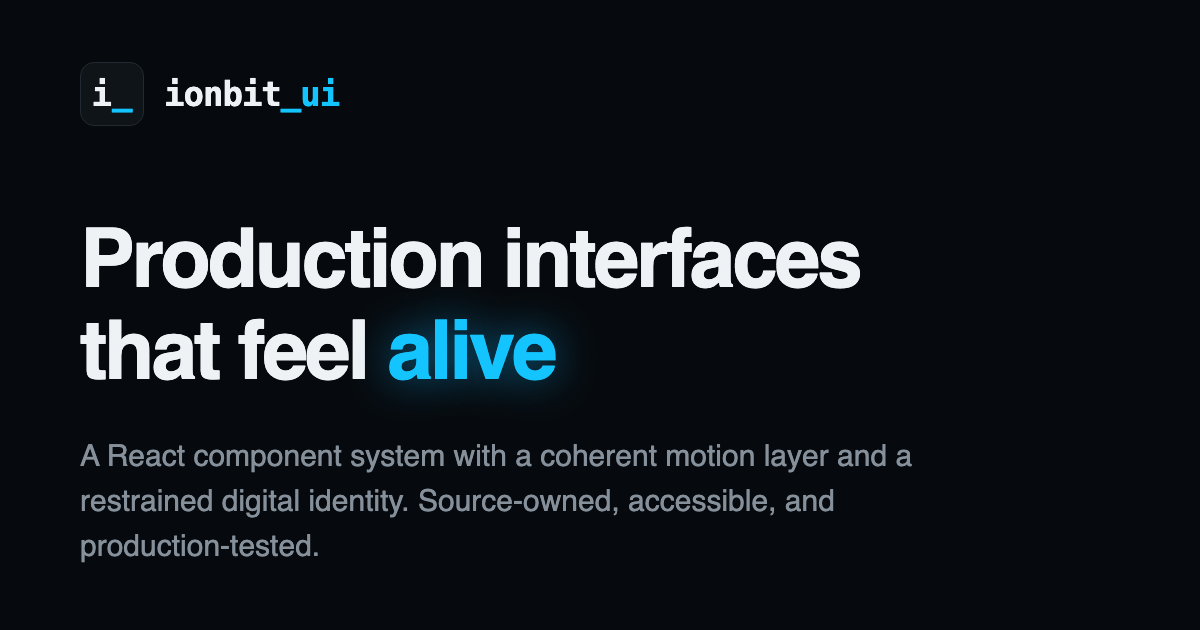
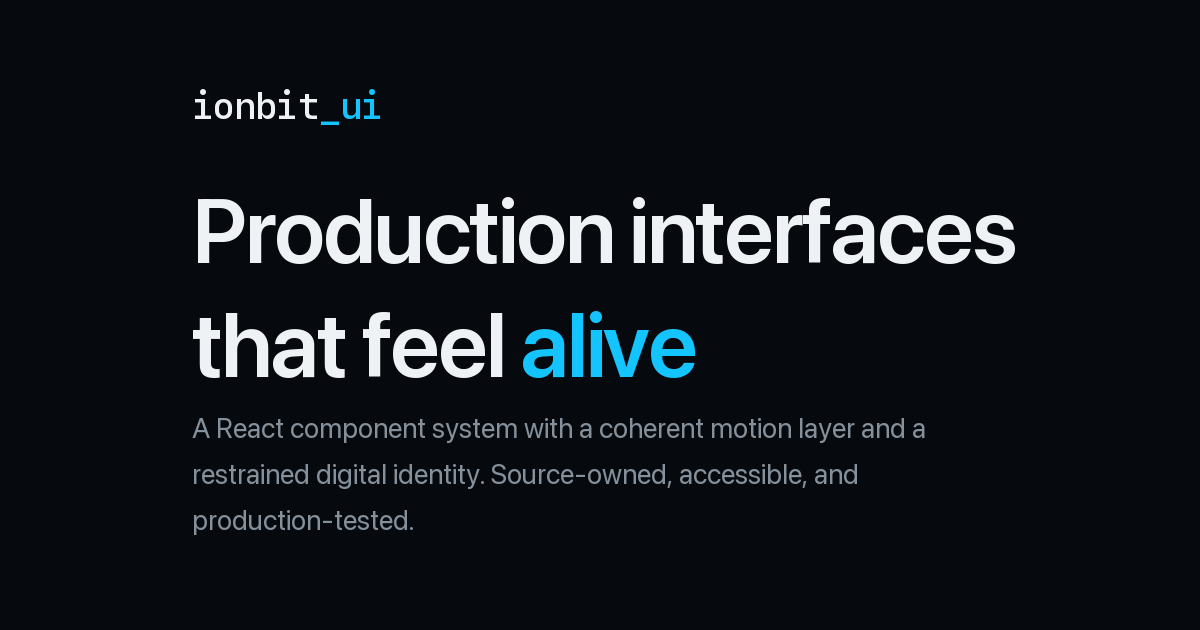
fix(docs): regenerate og-image with balanced layout
The Open Graph image was optically off-center: the text block sagged
with a large void between the logo and headline, cramped bottom
margin, and ~290px of dead space on the right. It also used the wrong
typeface.

og-image.png is now generated by a script
(apps/docs/scripts/generate-og-image.py, run via the docs app's
og:image script) that reproduces the site's typography — SF Pro
semibold with tracking-tight for the headline, SF Mono semibold
wordmark — and lays out the hero lockup with ink-measured optical
gaps weighted by element mass. Side margins are doubled (192px) so
content survives squarer social-preview crops, and the description
wraps at the headline width so both blocks share a right edge.

Changed region(s): [[0.0617, 0.3016, 0.8633, 0.6333], [0.0617, 0.6635, 0.7708, 0.9048], [0.0617, 0.1206, 0.3083, 0.2111]]

diff --git a/apps/docs/scripts/generate-og-image.py b/apps/docs/scripts/generate-og-image.py
@@ -1,0 +1,185 @@
+#!/usr/bin/env python3
+"""Generate apps/docs/public/og-image.png (1200x630 Open Graph image).
+
+Renders the homepage hero lockup (logo + headline + description) with PIL,
+matching the site's typography: SF Pro (ui-sans-serif), SF Mono (font-mono),
+semibold heading with tracking-tight (-0.025em letter-spacing).
+
+Layout is optically balanced: gaps are weighted by element mass rather than
+uniform, and the text block fills the canvas width.
+
+Usage: python3 apps/docs/scripts/generate-og-image.py
+Requires: Pillow. Fonts: SF Pro / SF Mono (macOS system fonts).
+"""
+
+from pathlib import Path
+
+from PIL import Image, ImageDraw, ImageFont
+
+ROOT = Path(__file__).resolve().parents[1]
+OUT = ROOT / "public" / "og-image.png"
+
+W, H = 1200, 630
+
+BG = (6, 10, 14)
+TEXT = (239, 242, 245)
+ACCENT = (20, 196, 255)
+MUTED = (134, 144, 155)
+
+FONT_SANS = "/System/Library/Fonts/SFNS.ttf"
+FONT_MONO = "/System/Library/Fonts/SFNSMono.ttf"
+
+# --- layout constants -------------------------------------------------------
+MARGIN_X = 192  # wide side margins keep content inside squarer social crops
+MARGIN_TOP = 84
+
+WORDMARK_SIZE = 36
+
+HEADLINE_SIZE = 91
+HEADLINE_LEADING = 1.25  # leading-tight
+DESC_SIZE = 28
+DESC_LEADING = 1.625  # leading-relaxed
+
+TRACKING_TIGHT = -0.025  # em, matches Tailwind tracking-tight
+
+# Optical gaps (clear space between visual bounding boxes), weighted by
+# element mass: the light logo row gets more air before the heavy headline;
+# the description hugs the headline it belongs to.
+GAP_LOGO_H1 = 72
+GAP_H1_DESC = 40
+
+
+def sans(size: int, instance: str = "Regular") -> ImageFont.FreeTypeFont:
+    font = ImageFont.truetype(FONT_SANS, size)
+    font.set_variation_by_name(instance)
+    return font
+
+
+def mono(size: int, instance: str = "Semibold") -> ImageFont.FreeTypeFont:
+    font = ImageFont.truetype(FONT_MONO, size)
+    font.set_variation_by_name(instance)
+    return font
+
+
+def tracked_width(draw, text, font, tracking: float) -> float:
+    """Width of text with per-character letter-spacing (CSS letter-spacing)."""
+    if not text:
+        return 0.0
+    adv = sum(draw.textlength(ch, font=font) for ch in text)
+    return adv + tracking * (len(text) - 1)
+
+
+def draw_tracked(
+    draw,
+    xy: tuple[float, float],
+    parts: list[tuple[str, tuple[int, int, int]]],
+    font,
+    tracking: float,
+) -> None:
+    """Draw a line with per-segment colors and per-character letter-spacing."""
+    x, y = xy
+    for i, (text, color) in enumerate(parts):
+        for j, ch in enumerate(text):
+            draw.text((x, y), ch, font=font, fill=color)
+            x += draw.textlength(ch, font=font)
+            # letter-spacing applies after every glyph except the line's last
+            if not (i == len(parts) - 1 and j == len(text) - 1):
+                x += tracking
+
+
+def ink_height(draw, text, font) -> tuple[int, int]:
+    """(height, top_offset) of the rendered ink for a line of text."""
+    bbox = draw.textbbox((0, 0), text, font=font)
+    return bbox[3] - bbox[1], bbox[1]
+
+
+def main() -> None:
+    img = Image.new("RGB", (W, H), BG)
+    draw = ImageDraw.Draw(img)
+
+    wordmark_font = mono(WORDMARK_SIZE)
+    h1 = sans(HEADLINE_SIZE, "Semibold")
+    desc = sans(DESC_SIZE)
+
+    h1_track = HEADLINE_SIZE * TRACKING_TIGHT
+    wm_track = WORDMARK_SIZE * TRACKING_TIGHT
+
+    y = MARGIN_TOP
+
+    # -- logo row: wordmark only -----------------------------------------------
+    wm = [("ionbit", TEXT), ("_ui", ACCENT)]
+    wm_w = tracked_width(draw, "ionbit_ui", wordmark_font, wm_track)
+    wb = draw.textbbox((0, 0), "ionbit_ui", font=wordmark_font)
+    draw_tracked(draw, (MARGIN_X, y), wm, wordmark_font, wm_track)
+    logo_right = MARGIN_X + wm_w
+
+    logo_bottom = y + wb[3]
+
+    # -- headline --------------------------------------------------------------
+    # GAP_LOGO_H1 is clear space between the wordmark's baseline and the top
+    # of the headline's ink.
+    h1_lines = [
+        [("Production interfaces", TEXT)],
+        [("that feel ", TEXT), ("alive", ACCENT)],
+    ]
+    ink_h, ink_top = ink_height(draw, "Production interfaces", h1)
+    h1_y = logo_bottom + GAP_LOGO_H1 - ink_top
+
+    advance = round(HEADLINE_SIZE * HEADLINE_LEADING)
+    for i, parts in enumerate(h1_lines):
+        draw_tracked(draw, (MARGIN_X, h1_y + i * advance), parts, h1, h1_track)
+
+    h1_ink_bottom = h1_y + advance + ink_top + ink_h
+
+    # -- description -------------------------------------------------------------
+    desc_text = (
+        "A React component system with a coherent motion layer and a "
+        "restrained digital identity. Source-owned, accessible, and "
+        "production-tested."
+    )
+    # Wrap the description at the headline's width so both blocks share a
+    # right boundary.
+    max_desc_w = tracked_width(
+        draw, "Production interfaces", h1, h1_track
+    )
+    words = desc_text.split()
+    lines, cur = [], ""
+    for word in words:
+        trial = f"{cur} {word}".strip()
+        if draw.textlength(trial, font=desc) <= max_desc_w:
+            cur = trial
+        else:
+            lines.append(cur)
+            cur = word
+    lines.append(cur)
+
+    d_ink_h, d_ink_top = ink_height(draw, lines[0], desc)
+    desc_y = h1_ink_bottom + GAP_H1_DESC - d_ink_top
+    d_advance = round(DESC_SIZE * DESC_LEADING)
+    for i, line in enumerate(lines):
+        draw.text((MARGIN_X, desc_y + i * d_advance), line, font=desc, fill=MUTED)
+
+    desc_ink_bottom = desc_y + (len(lines) - 1) * d_advance + d_ink_top + d_ink_h
+
+    # -- report -------------------------------------------------------------------
+    right_edge = max(
+        tracked_width(draw, "".join(p for p, _ in h1_lines[0]), h1, h1_track),
+        tracked_width(draw, "".join(p for p, _ in h1_lines[1]), h1, h1_track),
+        max(draw.textlength(l, font=desc) for l in lines),
+        logo_right - MARGIN_X,
+    ) + MARGIN_X
+    print(
+        f"content: x {MARGIN_X}-{right_edge:.0f}  "
+        f"y {MARGIN_TOP}-{desc_ink_bottom:.0f}"
+    )
+    print(
+        f"margins: top {MARGIN_TOP}  right {W - right_edge:.0f}  "
+        f"bottom {H - desc_ink_bottom:.0f}"
+    )
+
+    img.save(OUT)
+    print(f"saved {OUT}")
+
+
+if __name__ == "__main__":
+    main()

diff --git a/CHANGELOG.md b/CHANGELOG.md
@@ -66,6 +66,12 @@ and this project adheres to [Semantic Versioning](https://semver.org/spec/v2.0.0
 - **Dropdown Menu registry dependencies.** The item now installs
   `@base-ui/react` + `lucide-react` instead of the removed
   `@radix-ui/react-dropdown-menu` package.
+- **Open Graph image layout.** `apps/docs/public/og-image.png` is now
+  generated by `apps/docs/scripts/generate-og-image.py`
+  (`yarn workspace @ionbit-ui/docs og:image`), matching the site's
+  typography (SF Pro semibold with tight tracking, SF Mono wordmark).
+  Content is optically centered with doubled side margins so it
+  survives squarer social-preview crops.
 
 ## [0.1.16] — 2026-09-17
 
